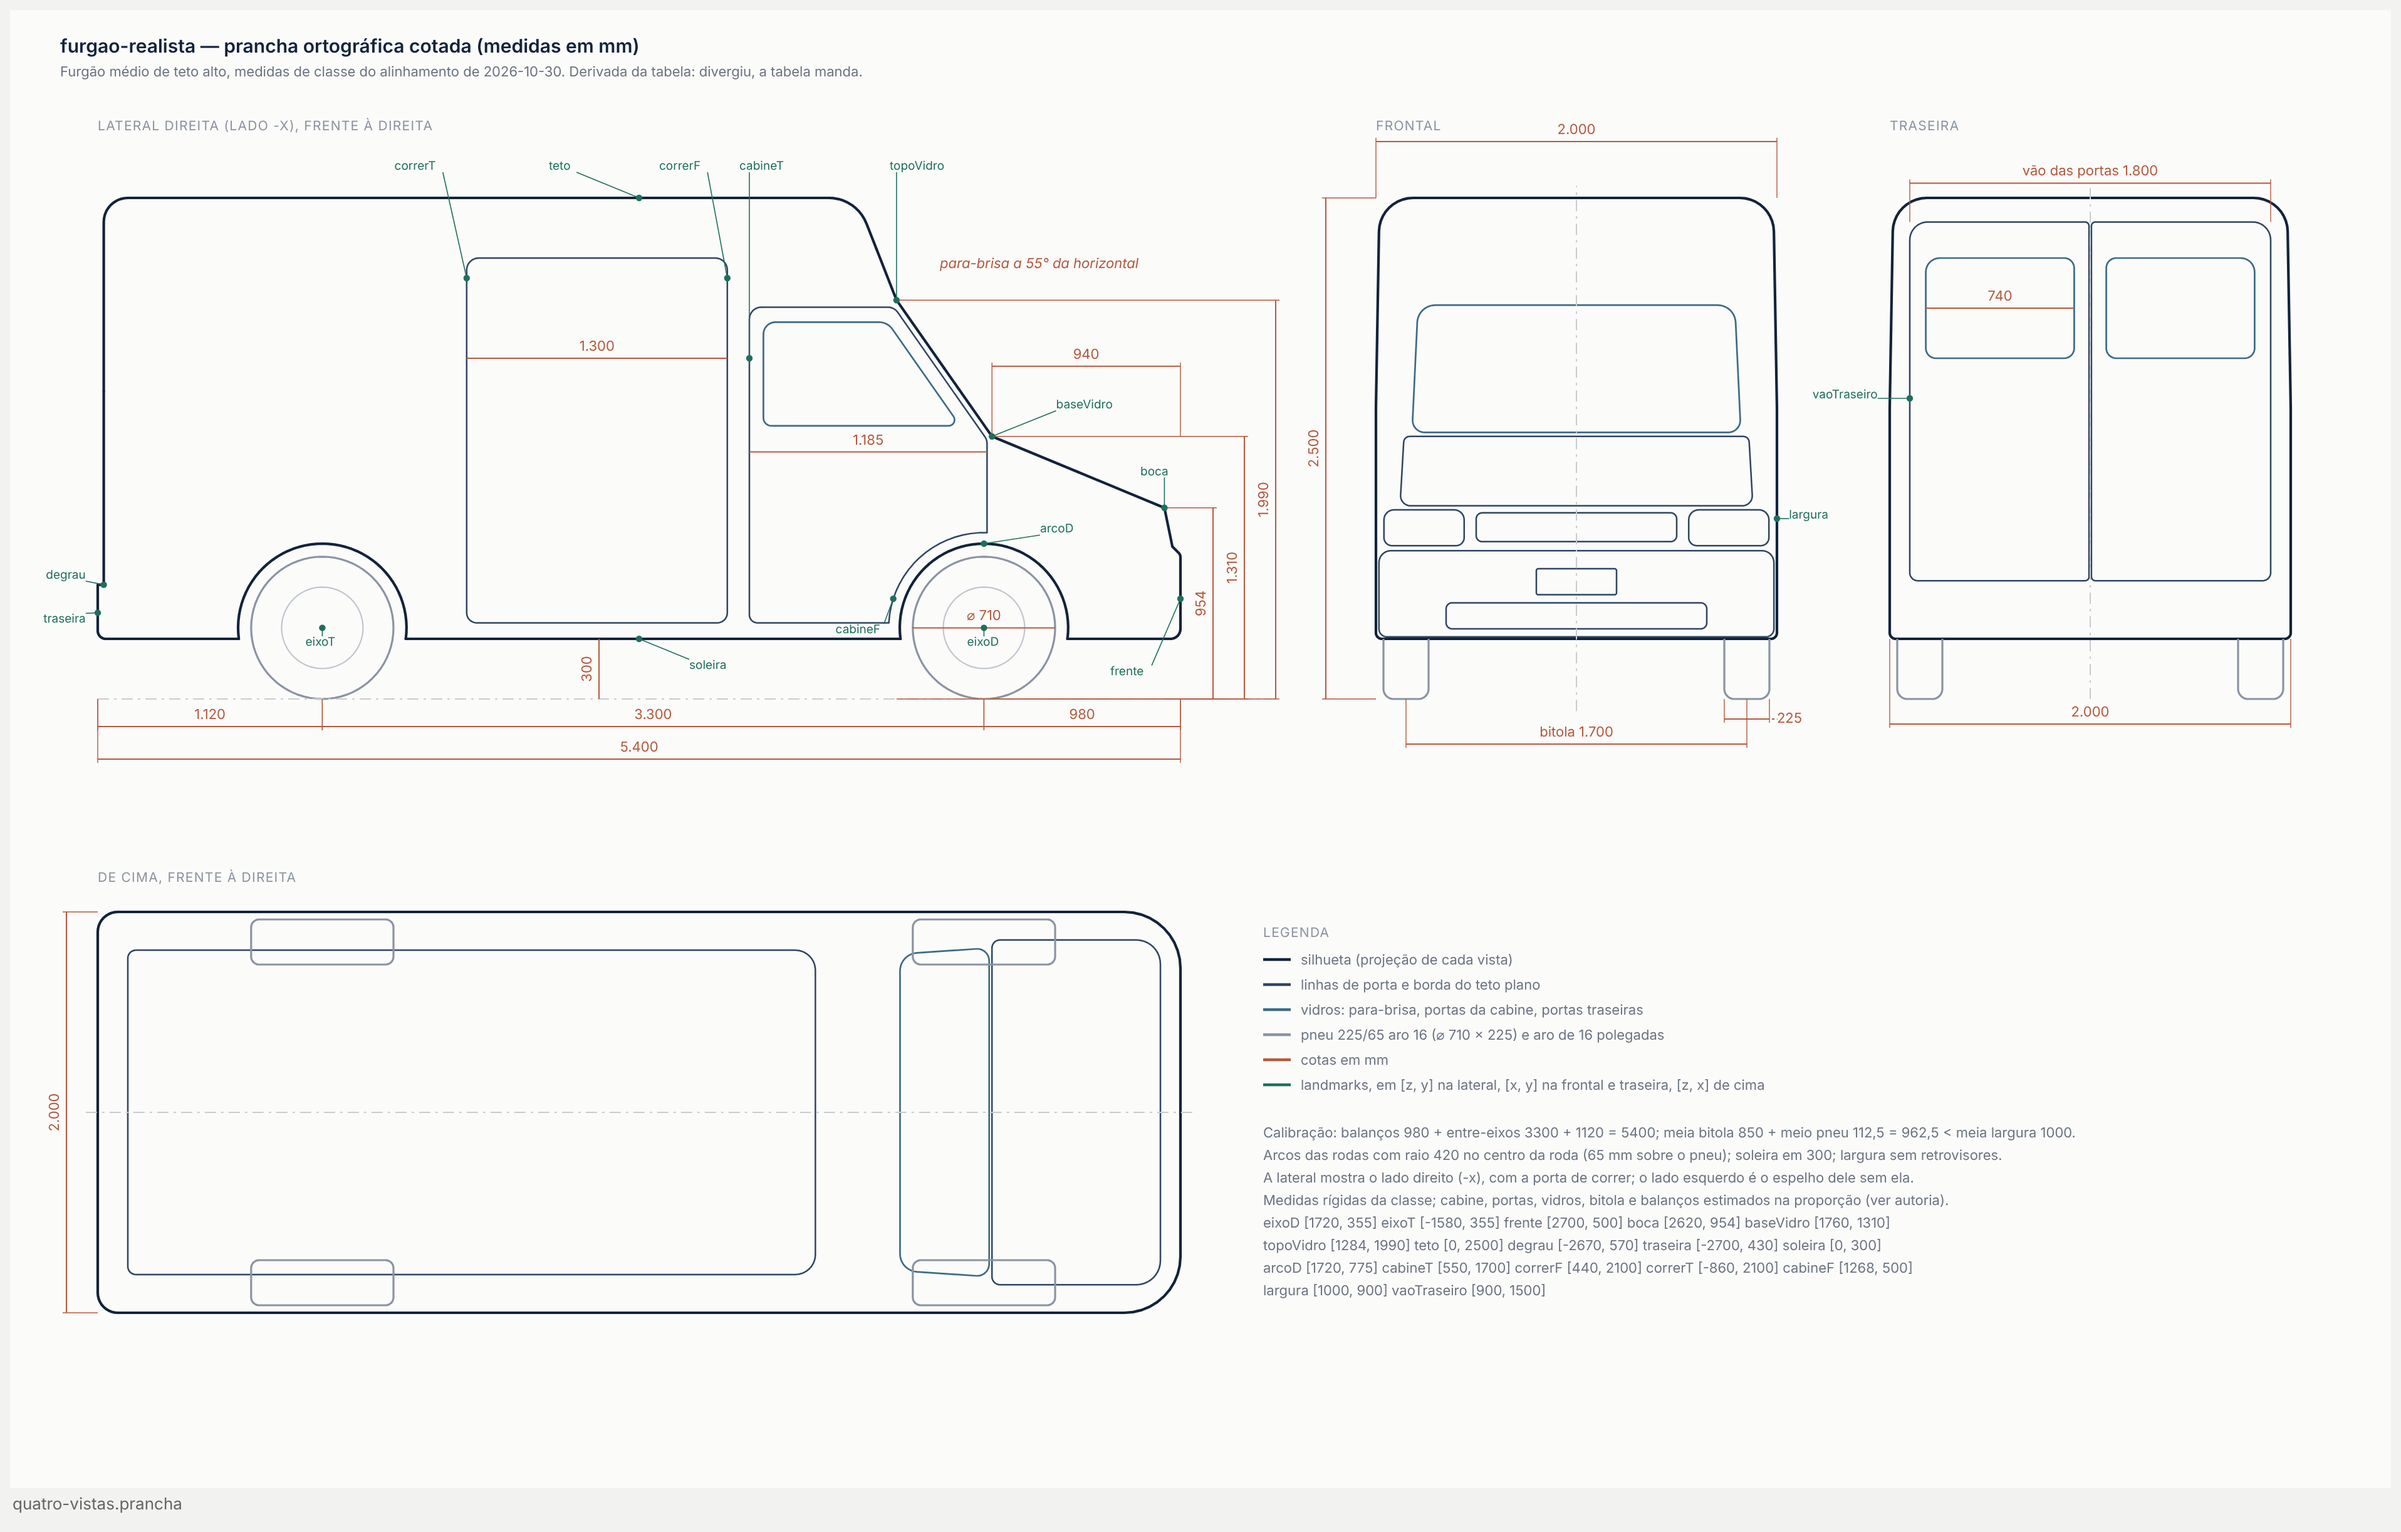
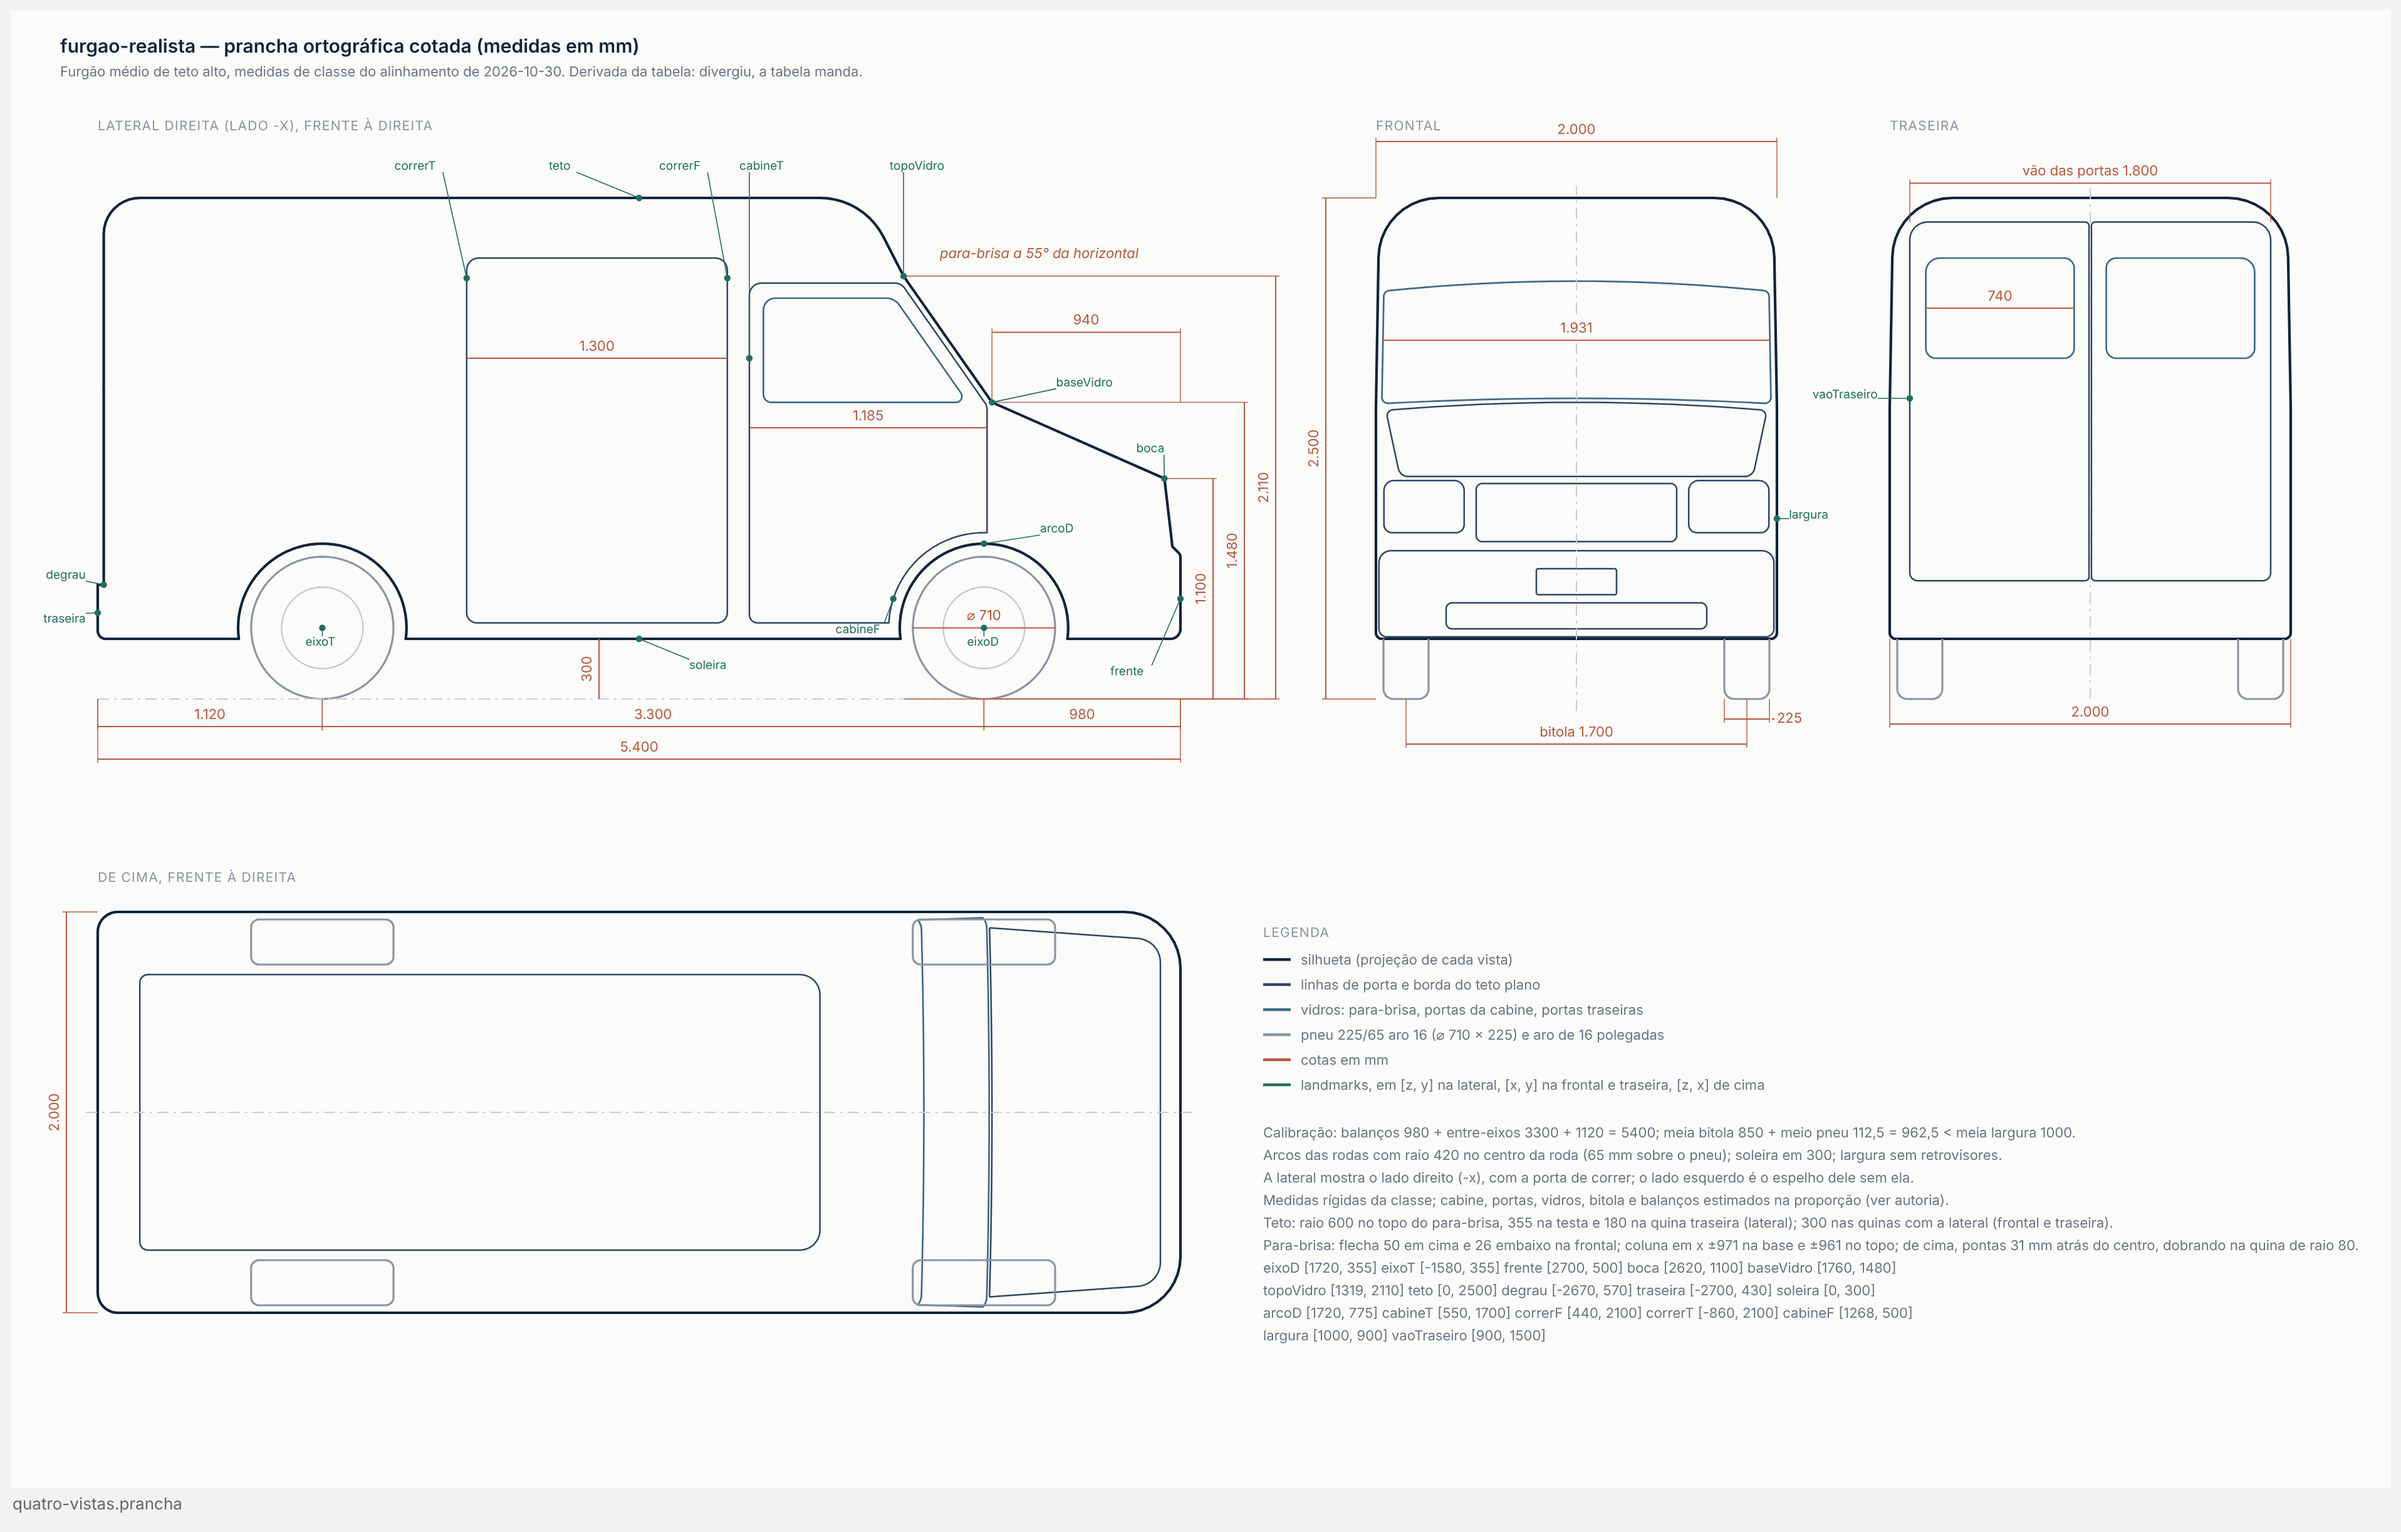
Furgão realista: prancha com a frente mais alta, o teto mais redondo e o para-brisa envolvente
Pelo ajuste da pessoa em 2026-10-31, com as posições em z mantidas, a
boca do capô sobe para y 1100 e o pé do para-brisa para y 1480. O topo
do para-brisa sobe para y 2110, em z 1319, e o para-brisa continua a 55
graus. O capô fica a 23,8 graus e a faixa acima do vidro tem 390 mm. A
base do vidro da porta da cabine sobe até o pé do para-brisa, e o topo
da porta acompanha a coluna até 2075. A porta segue de z 550 a 1735.

O teto ganha raios maiores. Na lateral são 600 no topo do para-brisa,
355 na testa (antes saía com 200, porque a linha era cortada no meio da
testa) e 180 na quina traseira. Nas quinas com a lateral, vistas de
frente e de trás, são 300.

O para-brisa envolve as quinas. Na frontal, as bordas são arcos com
flecha de 50 em cima e 26 embaixo, e a coluna fica em x ±971 na base e
±961 no topo. De cima, a base e o topo curvam e as pontas dobram numa
quina de raio 80, 31 mm atrás do centro, dentro da fresta da porta. O
capô de cima e de frente acompanha a curva.

O alvo.md registra o ajuste e propõe o vinco de cintura em cerca de
1190. Relatório sem alerta e desenho sem colisão.

Claude-Session: https://claude.ai/code/session_015i1y8CrgTgEfwGG2HEX8g8

diff --git a/procedural/pecas/furgao-realista/referencias/alvo.md b/procedural/pecas/furgao-realista/referencias/alvo.md
@@ -4,6 +4,18 @@
 
 O alvo é a prancha ortográfica cotada `quatro-vistas.prancha.png`, aprovada pela pessoa em 2026-10-31, com a especificação em `quatro-vistas.prancha.mjs` e o relatório do motor em `quatro-vistas.prancha.relatorio.json`. Ela é derivada das medidas de classe do [alinhamento](../../../../docs/modelar/banco-de-provas/furgao-realista-2026-10-30/ALINHAMENTO.md): furgão médio de teto alto com 5.400 mm de comprimento, 2.000 mm de largura sem os retrovisores, 2.500 mm de altura, 3.300 mm entre os eixos, balanços de 980 mm na frente e 1.120 mm atrás, bitola de 1.700 mm, pneu 225/65 aro 16 com 710 mm de diâmetro e 225 mm de largura, arcos de raio 420 mm no centro da roda e soleira em 300 mm. Quando a prancha e o alinhamento divergem, o alinhamento e a `TABELA` da receita mandam. A silhueta lateral, frontal e de cima da peça se mede contra a da prancha, com 15 mm em média e 40 mm no pior ponto, pelo critério do alinhamento.
 
+## O ajuste da prancha de 2026-10-31
+
+Depois de ver a lataria da etapa 2, a pessoa pediu três mudanças de forma e escolheu, no mesmo ajuste, alturas novas para a frente. A prancha foi refeita com elas e espera o crítico cego e o aceite da pessoa; até a receita ser refeita, a lataria da etapa 2 segue a prancha anterior.
+
+As alturas são escolha da pessoa no ajuste de 2026-10-31, com as posições em z mantidas. A boca do capô subiu de 954 para 1.100 mm, em z 2.620. O pé do para-brisa subiu de 1.310 para 1.480 mm, em z 1.760. O topo do para-brisa subiu de 1.990 para 2.110 mm e, com o para-brisa a 55 graus, foi para z 1.319. Com isso, o capô fica a 23,8 graus e a faixa de chapa acima do para-brisa tem 390 mm. A base do vidro das portas da cabine sobe para 1.480 mm, a altura do pé do para-brisa. O topo da porta da cabine acompanha a coluna e vai para 2.075 mm, e o topo do vidro dela para 2.000. A porta continua de z 550 até a aresta em z 1.735, com 1.185 mm na cintura. O para-choque dianteiro continua com a base em 300 e o degrau em 720 a 760 mm, e os faróis vão de 830 mm até a boca.
+
+O teto ganhou raios maiores. Na lateral, o topo do para-brisa vai para o teto num raio de 600 e a testa num raio de 355, o maior que cabe na faixa de 438 mm entre os dois. Antes, o raio pedido na testa era de 300 e saía com 200, porque o desenho cortava a linha no meio da testa. A quina do teto com a traseira passa de 120 para 180 mm, o que deixa a traseira vertical até 2.320 e o topo das portas traseiras, em 2.380, 10 mm para dentro, no começo da curva. Na frontal e na traseira, a quina do teto com a lateral passa de 170 para 300 mm. A borda do teto plano, de cima, vai para x ±687, de z 902 a -2.490.
+
+O para-brisa curva e envolve as quinas. Na frontal, ele vai quase até a lateral, com a coluna em x ±971 na base e ±961 no topo, e mede 1.931 mm de largura a 1.790 mm de altura. A borda de cima é um arco abaulado para cima, com flecha de 50 mm. A borda de baixo acompanha a coroa de 40 mm do capô e tem flecha de 26 mm. De cima, a base e o topo do vidro curvam em planta, com flecha de 12 mm até o começo da quina. As pontas dobram para a lateral numa quina de raio 80, até 40 graus, e ficam 31 mm atrás do centro. Esse recuo cabe na fresta da porta da cabine, que na lateral fica 30 mm atrás da coluna, na perpendicular, ou 37 mm na horizontal; por isso a porta não muda. O capô de cima acompanha a curva da base do vidro.
+
+O vinco de cintura, hoje em 1.050 mm, sobe na proporção do pé do para-brisa (1.480 sobre 1.310) para cerca de 1.190 mm. Esse valor é uma proposta para a etapa que refizer a lataria. A prancha não desenha o vinco.
+
 ## A referência de caráter
 
 O `fonte-vistas.png` são as vistas do `furgao` do acervo, de que esta peça nasceu como cópia. Valem só como caráter da forma, porque as medidas do `furgao` (rodas de 1.060 mm numa carroceria de 4.854 mm, cabine que afunila para o teto) deixaram de valer pelo alinhamento. A origem do `furgao` é o modelo "van" do pacote A, de autor A, com licença livre sem exigência de crédito; a malha não está no repositório, e as medidas tiradas dela ficam só no `furgao`, em `procedural/pecas/furgao/referencias/fonte-partes.json`.
